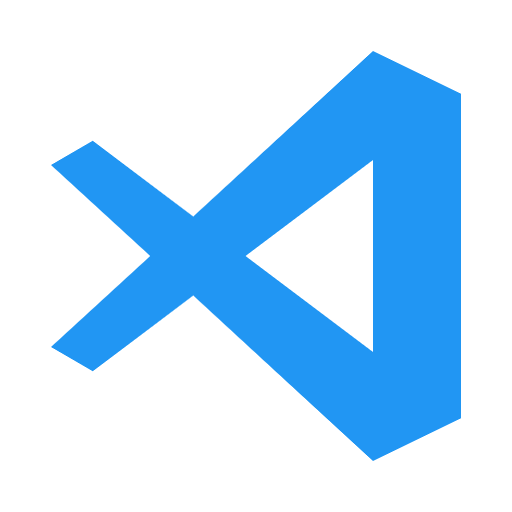
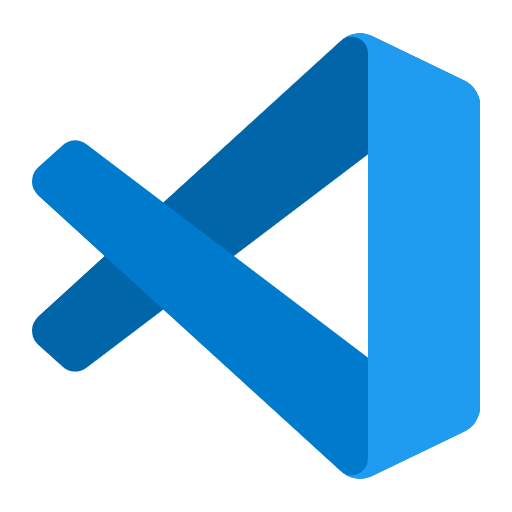
调整了一些界面大小；更新VSCode插件

diff --git a/main.py b/main.py
@@ -207,10 +207,10 @@ class BeefaloWidget(QWidget, SettingInterface):
         # TODO find more tricky method
         actual_height = min(height, max_height)
         if cnt:
-            self.ws_listview.setFixedHeight(actual_height - base_height - self.m_size.result_margin_top)
+            self.ws_listview.setFixedHeight(int(actual_height - base_height - self.m_size.result_margin_top))
         else:
-            self.ws_listview.setFixedHeight(actual_height - base_height)
-        self.setFixedHeight(actual_height)
+            self.ws_listview.setFixedHeight(int(actual_height - base_height))
+        self.setFixedHeight(int(actual_height))
 
     def change_theme(self, css, theme):
 
@@ -254,23 +254,23 @@ class BeefaloWidget(QWidget, SettingInterface):
         self.m_size = WindowSize(size_scale)
         self.delegate.i_size = ItemSize(size_scale)
         self.result_item_height = self.delegate.i_size.height
-        self.setGeometry(0, 0, self.m_size.main_width,
-                         self.m_size.editor_height + self.m_size.main_padding[1] * 2
-                         + self.result_item_height * (self.result_size + 4))
+        self.setGeometry(0, 0, int(self.m_size.main_width),
+                         int(self.m_size.editor_height + self.m_size.main_padding[1] * 2
+                         + self.result_item_height * (self.result_size + 4)))
 
-        self.setFixedHeight(self.m_size.editor_height + self.m_size.main_padding[1] * 2
-                            + self.result_item_height * (self.result_size + 2))
+        self.setFixedHeight(int(self.m_size.editor_height + self.m_size.main_padding[1] * 2
+                            + self.result_item_height * (self.result_size + 2)))
         font = self.ws_input.font()
         # font.setPointSize(self.m_size.editor_font_size)  # change it's size
-        font.setPixelSize(self.m_size.editor_font_size)
+        font.setPixelSize(int(self.m_size.editor_font_size))
         self.ws_input.setFont(font)
-        self.ws_input.setFixedHeight(self.m_size.editor_height)
+        self.ws_input.setFixedHeight(int(self.m_size.editor_height))
 
-        self.ws_progress_bar.setFixedHeight(self.m_size.main_padding[1])
+        self.ws_progress_bar.setFixedHeight(int(self.m_size.main_padding[1]))
 
-        self.layout().setContentsMargins(self.m_size.main_padding[0],
-                                         self.m_size.main_padding[1],
-                                         self.m_size.main_padding[0],
+        self.layout().setContentsMargins(int(self.m_size.main_padding[0]),
+                                         int(self.m_size.main_padding[1]),
+                                         int(self.m_size.main_padding[0]),
                                          0)
 
         qr = self.frameGeometry()
@@ -280,7 +280,7 @@ class BeefaloWidget(QWidget, SettingInterface):
         self.screen_no = screen
         self.screen_width= screen_rect.width
         self.adjust_size()
-        self.setFixedHeight(self.m_size.editor_height + self.m_size.main_padding[1] * 2)
+        self.setFixedHeight(int(self.m_size.editor_height + self.m_size.main_padding[1] * 2))
 
     def set_input_text(self, text):
         # if the text is the same to the origin, it's called by plugin to refresh result list

diff --git a/plugins/workspace/vsc_workspace.py b/plugins/workspace/vsc_workspace.py
@@ -2,9 +2,14 @@ import os
 import json
 import re
 from urllib.parse import unquote
+import sqlite3
 
 vsc_path="code"
-storage_path=os.path.join(os.path.expanduser('~'),"AppData/Roaming/Code","storage.json")
+
+last_update=None
+storage_path=os.path.join(os.path.expanduser('~'),"AppData/Roaming/Code/User/globalStorage/state.vscdb")
+entries=[]
+
 
 def multi_contain(total,parts):
     totle_low=total.lower()
@@ -22,21 +27,34 @@ def wrapper(uri):
 def search(name):
     results=[]
     name=re.split("\s",name.strip())
-    with open(storage_path) as fjson:
-        entries=json.load(fjson)["openedPathsList"]["entries"]
-        for entry in entries:
-            if "folderUri" in entry:
-                folder_uri=entry["folderUri"]
-                if "label" in entry:
-                    sub_title = unquote(entry["label"])
-                    title = re.split("/|(\\\\)",sub_title)[-1]
-                else:
-                    sub_title = re.sub("^.*://","",unquote(folder_uri))
-                    title = re.split("/|(\\\\)",sub_title)[-1]
-                
-                if not multi_contain(sub_title,name):
-                    continue
-                
-                action=wrapper(folder_uri)
-                results.append((title,sub_title,action))
+    global entries,last_update
+    if last_update!=os.path.getmtime(storage_path): # update db cache
+        conn = sqlite3.connect(f'file:/{storage_path}?mode=ro', uri=True)
+        entries=next(conn.execute(""" select value from ItemTable where key="history.recentlyOpenedPathsList" """))[0]
+        entries=json.loads(entries)["entries"]
+        conn.close()
+        last_update=os.path.getmtime(storage_path)
+    
+    for entry in entries:
+        if "folderUri" in entry:
+            folder_uri=entry["folderUri"]
+
+            label=entry.get("label",folder_uri.split("/")[-1])
+            title=label
+            sub_title=label
+
+            if folder_uri.startswith("vscode-remote:"):
+                title = re.split("/|(\\\\)",folder_uri)[-1]
+            elif folder_uri.startswith("file:///"):
+                title = re.split("/|(\\\\)",folder_uri)[-1]
+            
+            if not title:
+                title="/"
+
+            if not multi_contain(sub_title,name):
+                continue
+
+            action=wrapper(folder_uri)
+            results.append((title,sub_title,action))
+
     return results

diff --git a/plugins/everything/everything.py b/plugins/everything/everything.py
@@ -45,6 +45,7 @@ def copy_file(file_name):
 
 @lru_cache(maxsize=512)
 def get_link_target(link_file):
+    # print(link_file)
     ws = win32com.client.Dispatch("wscript.shell")
     shortcut = ws.CreateShortcut(link_file)
     # print(scut.iconlocation,"========",scut.TargetPath)
@@ -58,6 +59,8 @@ def get_link_target(link_file):
         iconPath = shortcut.targetPath
     iconPath = os.path.expandvars(iconPath)
     if not iconId:
+        if iconPath.endswith(".ico"):
+            return QIcon(iconPath)
         return QIcon(QFileIconProvider().icon(QFileInfo(iconPath)))
 
     iconRes = win32gui.ExtractIconEx(iconPath, iconId)
@@ -85,7 +88,6 @@ class FileResultItem(ResultItem):
         self.subTitle = fullPath
 
         if system_icon:
-
             if fileName.endswith(".url"):
                 self.icon = os.path.join("images", "link.png")
             else:

diff --git a/plugins/calculator/calculator.py b/plugins/calculator/calculator.py
@@ -16,7 +16,7 @@ class CalculatorPlugin(AbstractPlugin, I18nInterface):
             attr_type = getattr(math, attr)
             if (callable(attr_type) or isinstance(attr_type, numbers.Number)) and not isclass(attr_type):
                 self.math_func[attr] = attr_type
-        self.math_func.update({"int": int, "hex": hex, "bin": bin, "oct": oct})
+        self.math_func.update({"int": int, "hex": hex, "bin": bin, "oct": oct, "len": len})
 
     def query(self, keyword, text, token=None, parent=None):
         try:

diff --git a/gui_size.py b/gui_size.py
@@ -4,7 +4,7 @@ font_size_base = 1
 
 class SizeScale(object):
     def __init__(self, screen_pix):
-        base_size = (1920, 1080)
+        base_size = (1920/1.2, 1080/1.2)
         self.g = max(screen_pix[0] / base_size[0], screen_pix[1] / base_size[1])
         self.f = self.g
 
